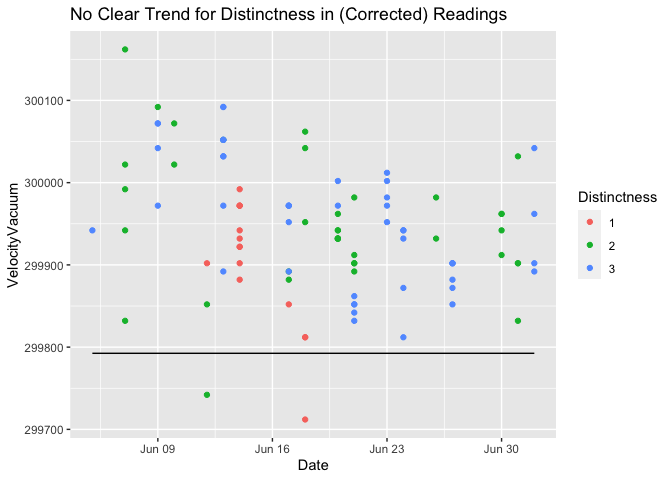
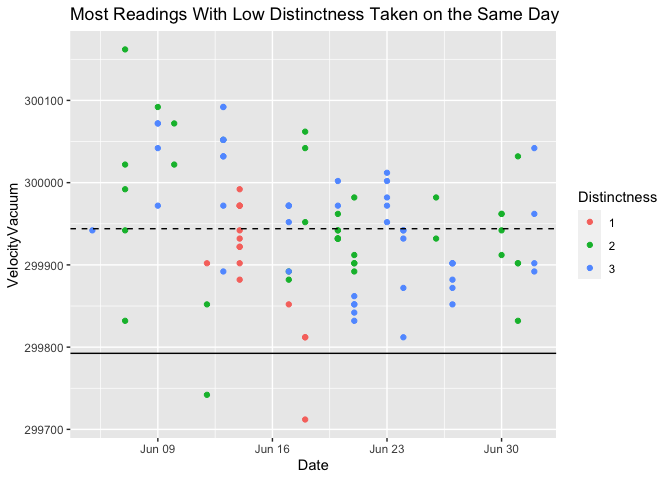
Updated graphs

Changed region(s): [[0.0938, 0.0, 0.8438, 0.0625]]

diff --git a/challenges/c02-michelson-assignment.md b/challenges/c02-michelson-assignment.md
@@ -282,8 +282,9 @@ library(viridis)
 df_q2 %>%
   ggplot() +
   geom_point(mapping = aes(x = Date, y = VelocityVacuum, color = Distinctness)) +
-  geom_line(mapping = aes(x = Date, y = 299792.5)) +
-  ggtitle("No Clear Trend for Distinctness in (Corrected) Readings")
+  geom_hline(yintercept = LIGHTSPEED_MICHELSON, linetype = "dashed") +
+  geom_hline(yintercept = LIGHTSPEED_VACUUM) +
+  ggtitle("Most Readings With Low Distinctness Taken on the Same Day")
 ```
 
 ![](c02-michelson-assignment_files/figure-gfm/visualization-distinct-1.png)<!-- -->
@@ -291,8 +292,8 @@ df_q2 %>%
 **Observations**:
 
   - There doesn’t seem to be a clear trend between distinctness and
-    proximity to the real value, though as we noted before, readings
-    with lower distinctness do seem to have a lower mean.
+    proximity to the real value (solid line), though as we noted before,
+    readings with lower distinctness do seem to have a lower mean.
   - Most of the readings with low distinctness were taken on the same
     day.
 
